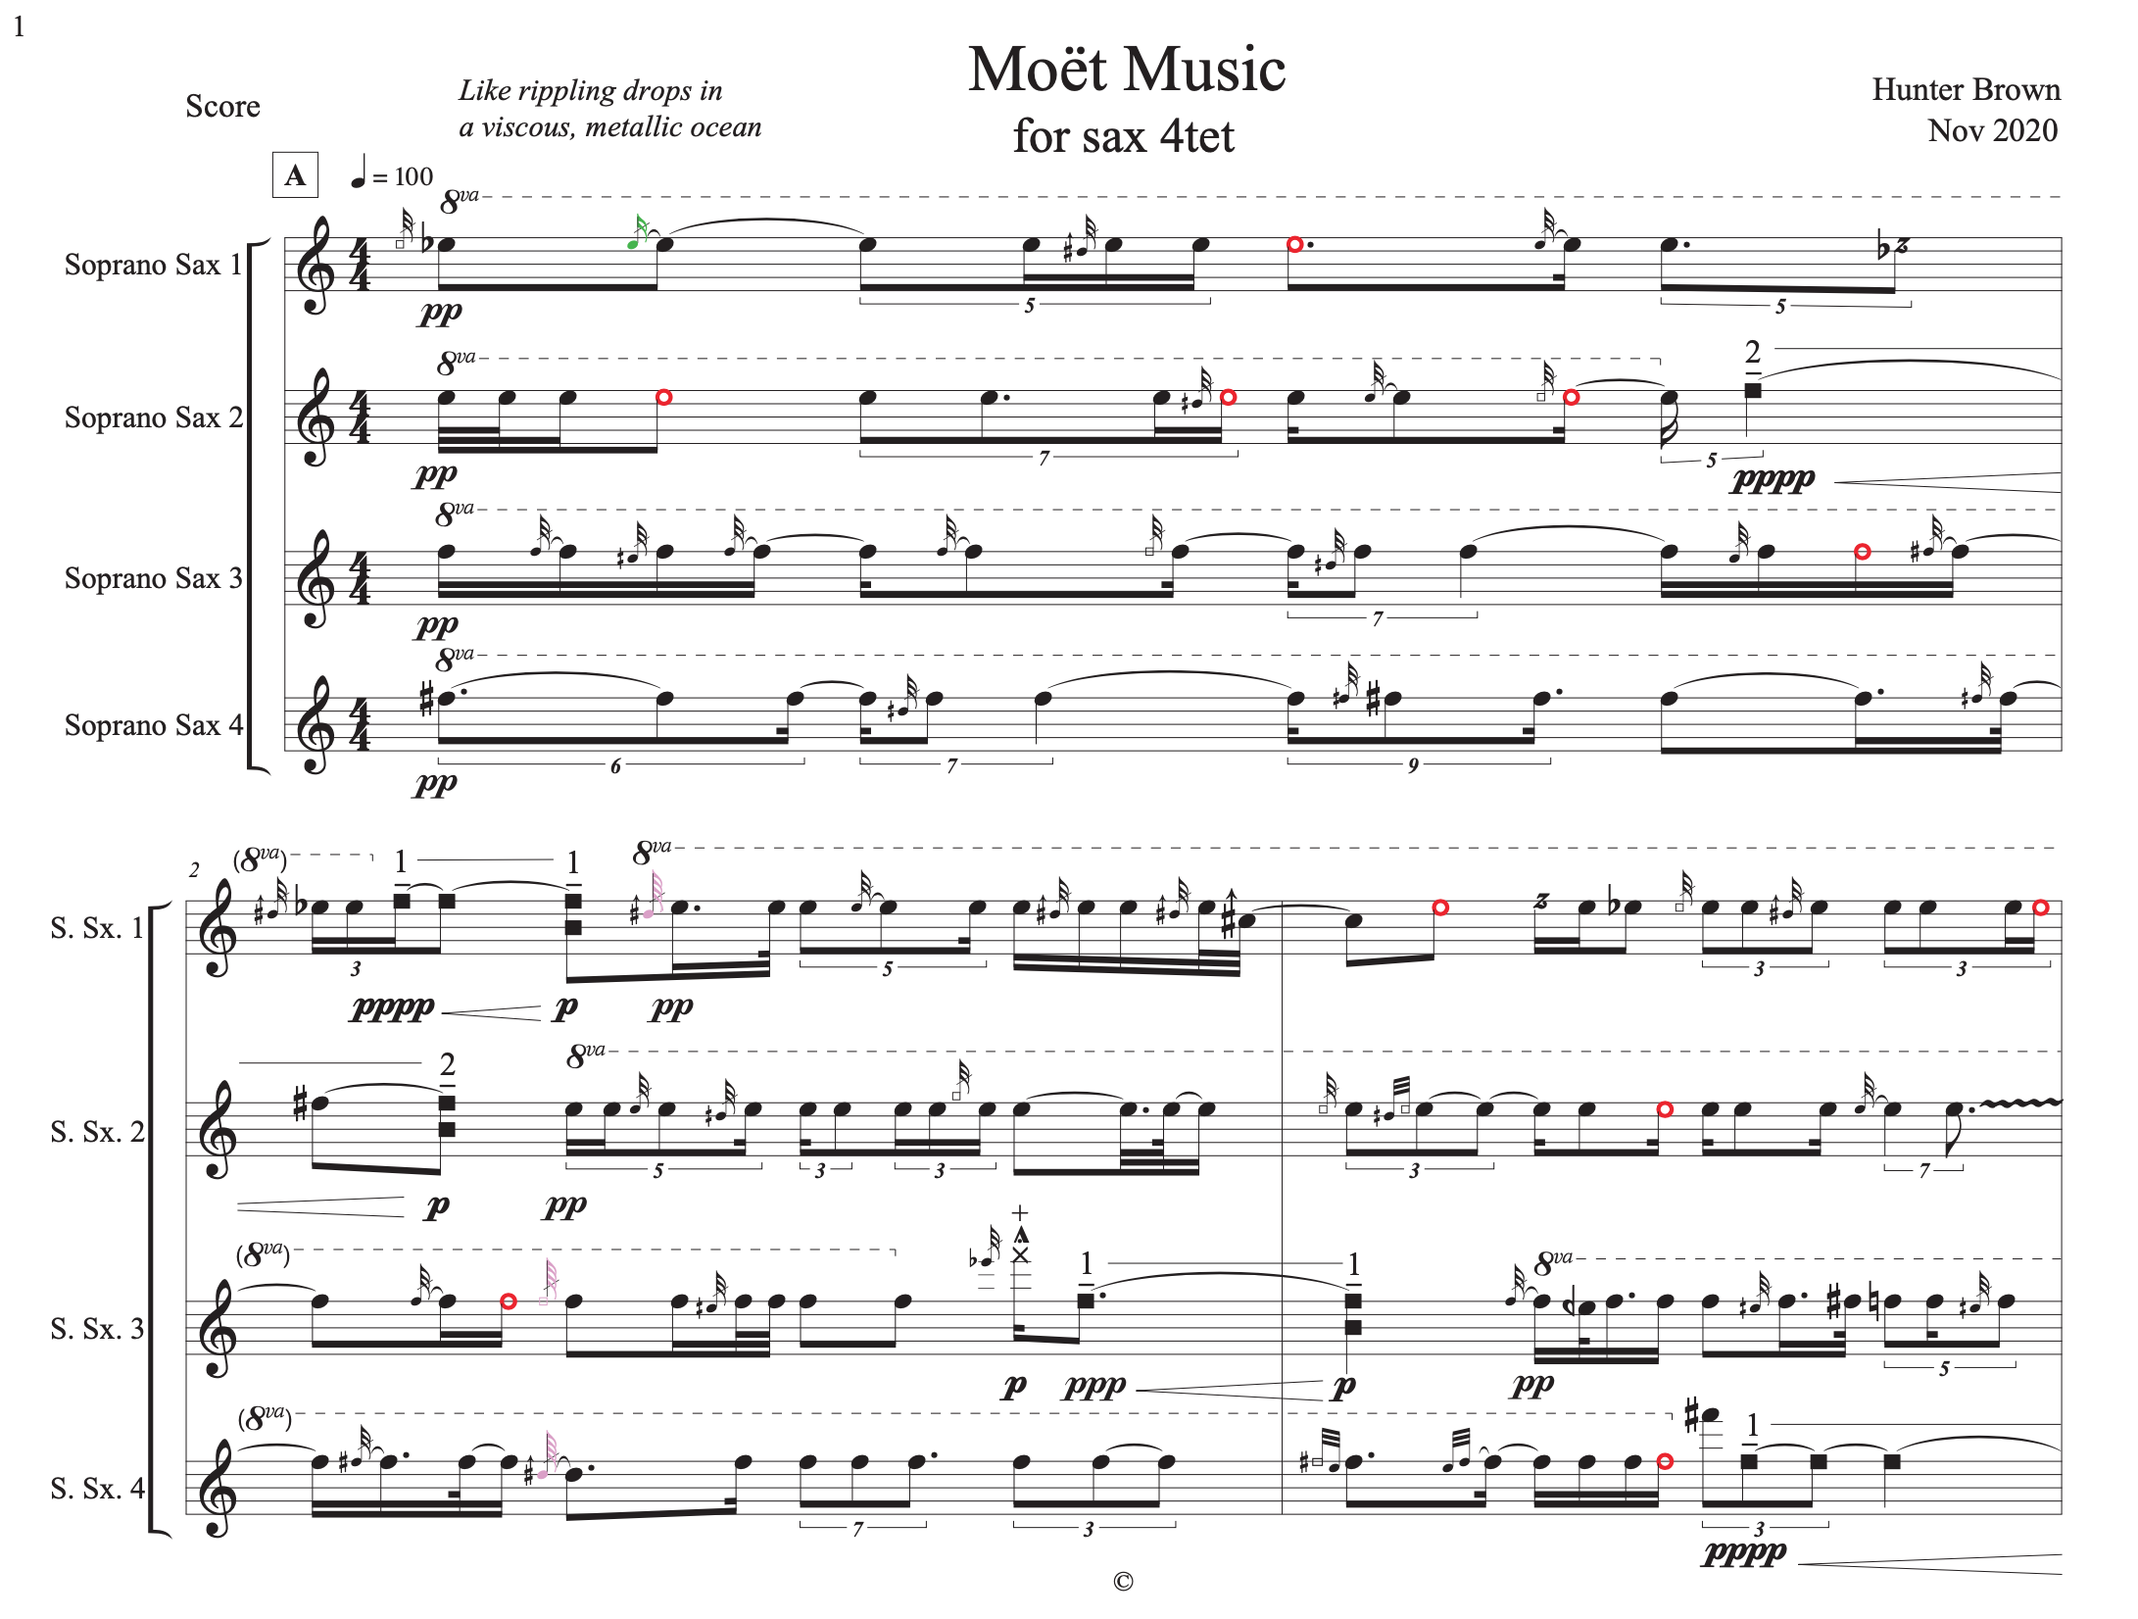
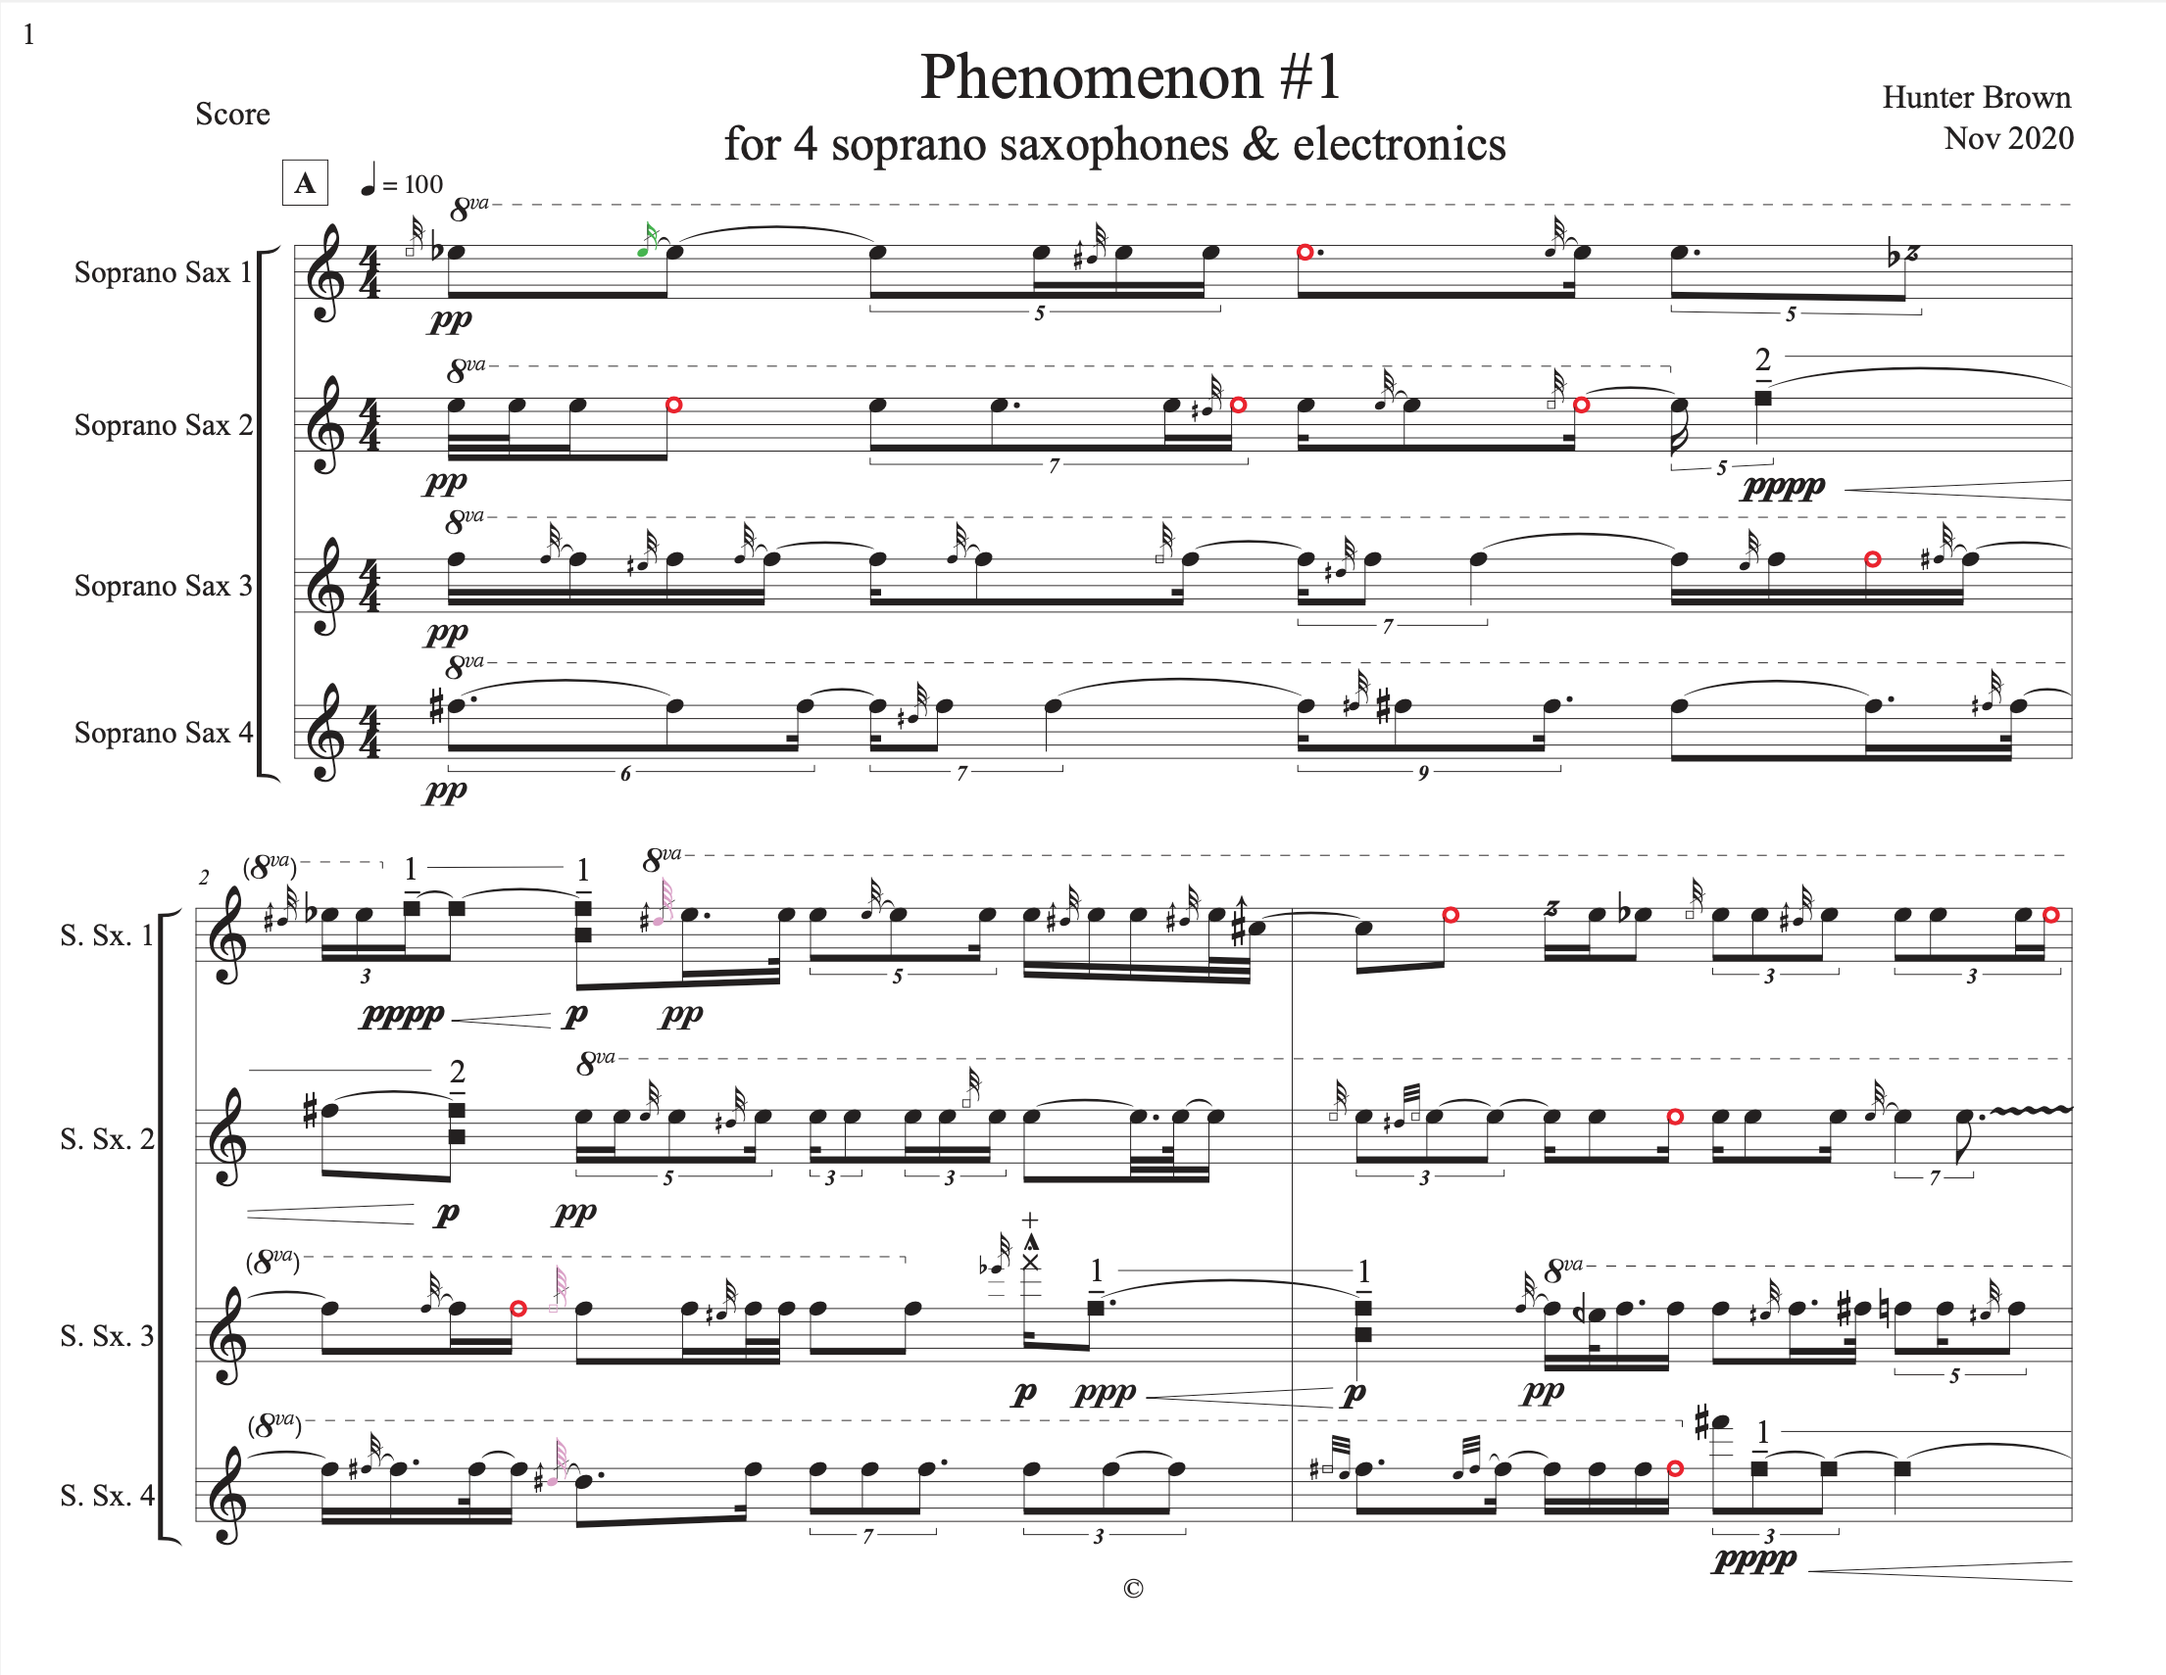
update2

Changed region(s): [[0.0312, 0.0309, 0.9661, 0.9879], [0.8726, 0.0309, 0.9661, 0.0926], [0.0935, 0.0617, 0.1247, 0.0926]]

diff --git a/notated/false.html b/notated/false.html
@@ -1,0 +1,55 @@
+<!DOCTYPE html>
+<html lang="en" dir="ltr">
+  <head>
+    <meta charset="utf-8" />
+    <meta name="viewport" content="width=device-width, user-scalable=no, minimum-scale=1.0, maximum-scale=1.0">
+    <meta name="author" content="Hunter Brown">
+    <link rel="stylesheet" href="../css/index.css">
+    <title>Hunter Brown</title>
+  </head>
+
+  <body>
+    <div class="containter">
+
+      <header>
+        <h1 class="title">Hunter Brown</h1>
+        <nav>
+          <ul>
+            <li><a href="../index.html" class="navLinks">About</a></li>
+            <li><a href="../work.html" class="navLinks">Work</a></li>
+            <li><a href="../news.html" class="navLinks">News</a></li>
+          </ul>
+        </nav>
+
+      </header>
+
+      <section>
+        <h2>Work</h2>
+        <div class="cols-container">
+          <div class="col">
+            <h3>False Translations</h3>
+
+            <!-- <iframe width="100%" height="120" scrolling="no" frameborder="no" allow="autoplay" src="https://w.soundcloud.com/player/?url=https%3A//api.soundcloud.com/tracks/1627029972&color=%23040c0c&auto_play=false&hide_related=false&show_comments=true&show_user=true&show_reposts=false&show_teaser=true&visual=true"></iframe><div style="font-size: 10px; color: #cccccc;line-break: anywhere;word-break: normal;overflow: hidden;white-space: nowrap;text-overflow: ellipsis; font-family: Interstate,Lucida Grande,Lucida Sans Unicode,Lucida Sans,Garuda,Verdana,Tahoma,sans-serif;font-weight: 100;"><a href="https://soundcloud.com/hunter-brown-music" title="Hunter Brown" target="_blank" style="color: #cccccc; text-decoration: none;">Hunter Brown</a> · <a href="https://soundcloud.com/hunter-brown-music/excess-study-1" title="Excess Study #1" target="_blank" style="color: #cccccc; text-decoration: none;">Excess Study #1</a></div> -->
+            
+            <p>
+              <i>False Translations</i> explores how commercial transcription software fails to comprehend and accurately transcribe computer generated sounds. These algorithms are used to automatically transcribe a corpus of glitch based synth sounds into notated tenor saxophone material. As the saxophonist performs these notated “false translations,” the saxophone’s sound is processed by a real-time algorithm that attempts to translate the saxophone sound back into computer generated sound. This computational translation between these two mediums highlights the computer’s failure to accurately do so, creating a mirrored and distorted shadow of the original set of failed transcriptions.
+              <br>
+              <br>
+             Written for and performed by <a href="https://www.allisonbalcetis.com/" target="_blank">Allison Balcetis</a> in 2020.
+            </p>
+
+            <br>
+            <br>
+
+            <iframe width="560" height="315" src="https://www.youtube.com/embed/zPxS3KwJf3Q?si=CiArY5EfB4HuylOW" title="YouTube video player" frameborder="0" allow="accelerometer; autoplay; clipboard-write; encrypted-media; gyroscope; picture-in-picture; web-share" allowfullscreen></iframe>
+
+            <img src="../images/scores/false.png" alt="">
+
+
+
+        
+          </div>          
+      </section>
+    </div>
+  </body>
+</html>

diff --git a/notated/moet.html b/notated/moet.html
@@ -27,13 +27,17 @@
         <h2>Work</h2>
         <div class="cols-container">
           <div class="col">
-            <h3>Moët Music</h3>
+            <h3>Phenomenon #1</h3>
 
-            <iframe width="100%" height="120" scrolling="no" frameborder="no" allow="autoplay" src="https://w.soundcloud.com/player/?url=https%3A//api.soundcloud.com/tracks/1461616990&color=%23080c0c&auto_play=false&hide_related=false&show_comments=true&show_user=true&show_reposts=false&show_teaser=true&visual=true"></iframe><div style="font-size: 10px; color: #cccccc;line-break: anywhere;word-break: normal;overflow: hidden;white-space: nowrap;text-overflow: ellipsis; font-family: Interstate,Lucida Grande,Lucida Sans Unicode,Lucida Sans,Garuda,Verdana,Tahoma,sans-serif;font-weight: 100;"><a href="https://soundcloud.com/hunter-brown-music" title="Hunter Brown" target="_blank" style="color: #cccccc; text-decoration: none;"></a><a href="https://soundcloud.com/hunter-brown-music/moet-music" title="Moët Music" target="_blank" style="color: #cccccc; text-decoration: none;"></a></div>
+            <iframe width="100%" height="120" scrolling="no" frameborder="no" allow="autoplay" src="https://w.soundcloud.com/player/?url=https%3A//api.soundcloud.com/tracks/1627868796&color=%23040c0c&auto_play=false&hide_related=false&show_comments=true&show_user=true&show_reposts=false&show_teaser=true&visual=true"></iframe><div style="font-size: 10px; color: #cccccc;line-break: anywhere;word-break: normal;overflow: hidden;white-space: nowrap;text-overflow: ellipsis; font-family: Interstate,Lucida Grande,Lucida Sans Unicode,Lucida Sans,Garuda,Verdana,Tahoma,sans-serif;font-weight: 100;"><a href="https://soundcloud.com/hunter-brown-music" title="Hunter Brown" target="_blank" style="color: #cccccc; text-decoration: none;">Hunter Brown</a> · <a href="https://soundcloud.com/hunter-brown-music/phenomenon-1" title="Phenomenon #1" target="_blank" style="color: #cccccc; text-decoration: none;">Phenomenon #1</a></div>
             
             <p>
-                Cooked this one up for <a href="https://www.noissaxophone.com/">~Nois</a> during the early part of the COVID-19 pandemic. Claustrophobic 
-                digital artifacts; drinking a lot of champagne for no reason.
+
+              <i>Phenomenon #1</i> uses 4 soprano saxophones as a composite mechanism for directly activating the human hearing apparatus. The saxophone material was recorded and processed through a collection of corrupted audio codecs. The process for corrupting these codecs severely mangles the psychoacoustic algorithms embedded within each codec. When these codecs process audio that contain explicit psychoacoustic phenomena, they produce sounds that challenge universalized notions of auditory perception, while stretching the boundary of what the listener’s ear is capable of. 
+
+              <br>
+              <br>
+              Written for <a href="https://www.noissaxophone.com/" target="_blank">~Nois</a> in 2020.
             </p>
 
             <img src="../images/scores/moetScore.png" alt="">

diff --git a/work.html b/work.html
@@ -65,7 +65,10 @@
                 <a href="notated/excess.html">Excess Study #1 - Soprano, Flute, Clarinet, Trombone, Fender Rhodes, Percussion, & Electronics </a> (2022)
               </li>
               <li>
-                <a href="notated/moet.html">Moët Music - 4 Soprano Saxophones & Fixed Media</a> (2021)
+                <a href="notated/moet.html">Phenomenon #1 - 4 Soprano Saxophones & Fixed Media</a> (2020)
+              </li>
+              <li>
+                <a href="notated/false.html">False Translations - Tenor Saxophone & Live Electronics</a> (2020)
               </li>
               <li>
                 <a href="notated/contin.html">Contingencies - Cornet, Bass, Drums & Interactive Electronics</a> (2019)
@@ -84,10 +87,10 @@
           <p>Research</p>
           <ul>
             <li>
-              <a href="research/instrument.html" target="_blank">Laptop Improvisation Instrument</a> (2021-present)
+              <a href="research/instrument.html">Laptop Improvisation Instrument</a> (2021-present)
             </li>
             <li>
-              <a href="research/heretic.html" target="_blank">Heretic: AI-Driven Improvisation Software</a> (2019-present)
+              <a href="research/heretic.html">Heretic: AI-Driven Improvisation Software</a> (2019-present)
             </li>
             <li>
               <a href="images/heretic-thesis-brown.pdf" target="_blank">Masters Thesis in Digital Musics</a> - Dartmouth College (2019)

diff --git a/research/heretic.html b/research/heretic.html
@@ -41,7 +41,7 @@
               <i>Heretic</i> is trained on my approach to improvisation, but through its interactions with a human performer, <i>Heretic’s</i> own improvisational voice and modes of musical expression emerge. 
               <br>
               <br>
-              <a href="https://github.com/hbrown1994/Heretic/tree/master">Github Repository</a>
+              <a href="https://github.com/hbrown1994/Heretic/tree/master" target="_blank">Github Repository</a>
             </p>
             <br>
             

diff --git a/research/instrument.html b/research/instrument.html
@@ -35,7 +35,7 @@
 
               <br>
               <br>
-              <a href="https://github.com/hbrown1994/improvisation-Instrument">Github Repository</a>
+              <a href="https://github.com/hbrown1994/improvisation-Instrument" target="_blank">Github Repository</a>
             </p>
             <br>
             
